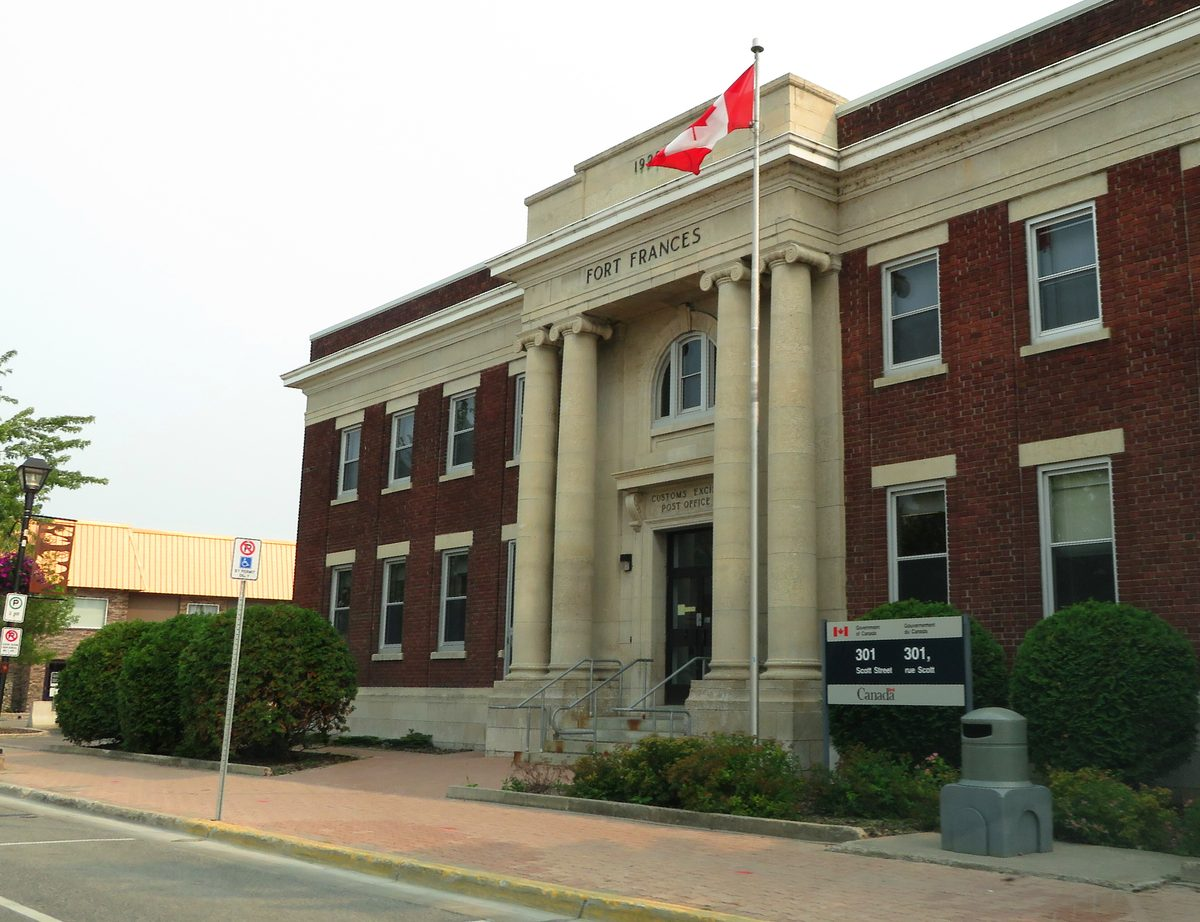
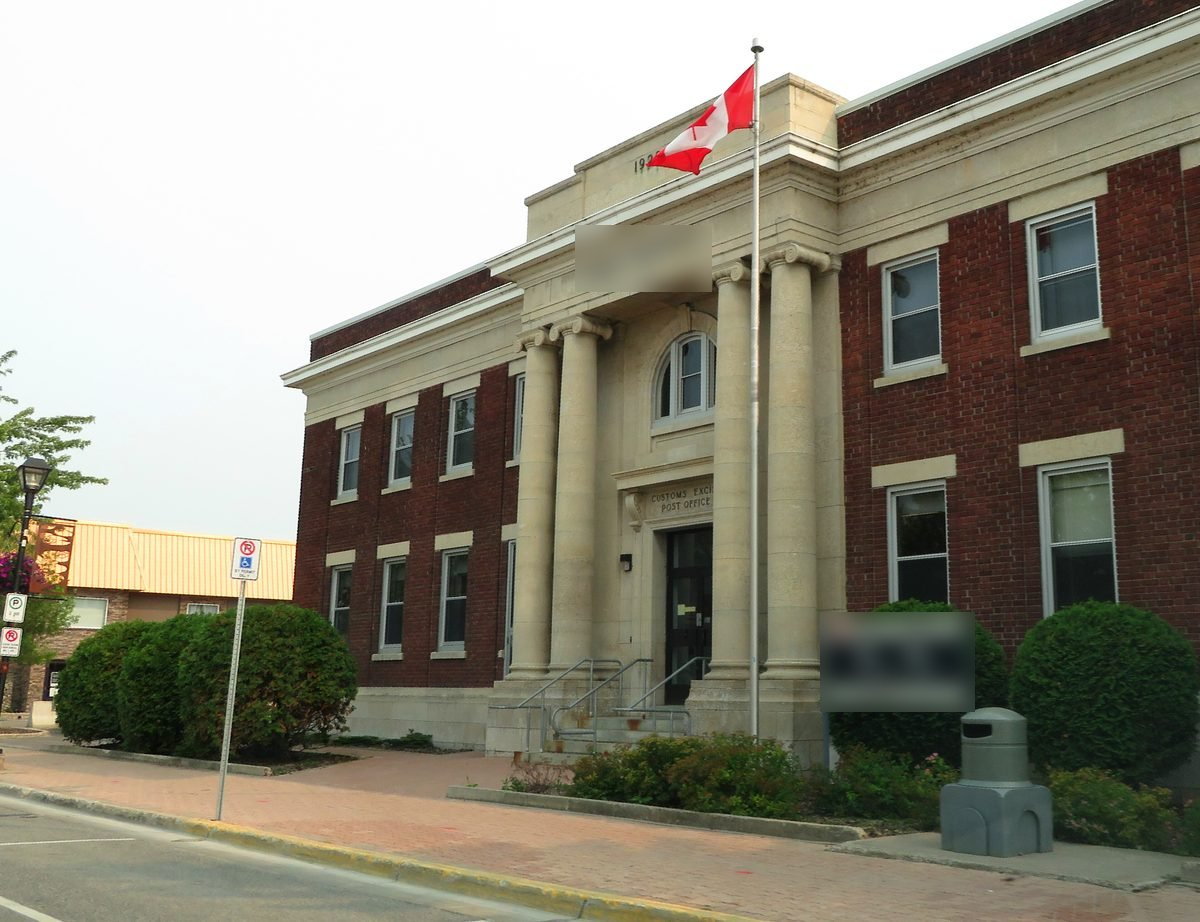
Remove client names and on-photo text from the services pages
Replace municipal client names with descriptions on services.html and the
Financial, Governance and Operational Improvement pages, drop the
"2013 Forward" project title, and blur the town name and street-address
sign on the post office photo.

Claude-Session: https://claude.ai/code/session_01XRxcuqMj64czPpwdNU61jx

Changed region(s): [[0.6783, 0.6377, 0.8325, 0.7896], [0.4625, 0.243, 0.5858, 0.3341]]

diff --git a/governance.html b/governance.html
@@ -57,11 +57,11 @@
       <p class="section-intro">Engagements led by Bruce Peever, founder of Baile Mór. For the full story of another, read the <a href="case-study-irrigation-governance.html">regional irrigation governance</a> case study.</p>
       <ul class="work-list">
         <li>
-          <h3>London Transit Commission</h3>
+          <h3>A large city’s transit commission</h3>
           <p class="work-meta">Governance review</p>
           <dl class="work-star">
             <dt>Challenge</dt>
-            <dd>After an interim change put City Councillors in place as commissioners, the City of London needed a governance model with clear accountability, timely decisions, and alignment with Council priorities.</dd>
+            <dd>After an interim change put City Councillors in place as commissioners, the City needed a governance model with clear accountability, timely decisions, and alignment with Council priorities.</dd>
             <dt>Approach</dt>
             <dd>Working with Dillon Consulting, Bruce engaged more than 25 people across Council, City administration, and the Commission, compared five peer transit organizations, and assessed three governance options.</dd>
             <dt>Result</dt>
@@ -69,7 +69,7 @@
           </dl>
         </li>
         <li>
-          <h3>Town of Fort Frances</h3>
+          <h3>A Northwestern Ontario town</h3>
           <p class="work-meta">Governance review</p>
           <dl class="work-star">
             <dt>Challenge</dt>

diff --git a/services.html b/services.html
@@ -50,19 +50,19 @@
         <li>
           <h2><a href="financial-strategy.html">Financial Strategy</a></h2>
           <p>When today’s budget can’t carry tomorrow’s obligations, you need a plan, not a guess.</p>
-          <p class="card-proof">Recent work: Cornwall, Wilmot, Mississippi Mills, Canso</p>
+          <p class="card-proof">Recent work: cities, townships and rural communities in Ontario and Nova Scotia</p>
           <span class="more" aria-hidden="true">Learn more →</span>
         </li>
         <li>
           <h2><a href="governance.html">Governance</a></h2>
           <p>Difficult decisions deserve independent, experienced counsel.</p>
-          <p class="card-proof">Recent work: London Transit Commission, Fort Frances</p>
+          <p class="card-proof">Recent work: a large city’s transit commission and a Northwestern Ontario town</p>
           <span class="more" aria-hidden="true">Learn more →</span>
         </li>
         <li>
           <h2><a href="operational-improvement.html">Operational Improvement</a></h2>
           <p>You suspect something isn’t working. We give you the evidence and the roadmap.</p>
-          <p class="card-proof">Recent work: Waterloo, Guelph, North Bay, Saint John</p>
+          <p class="card-proof">Recent work: city-wide reviews in Southwestern and Northern Ontario</p>
           <span class="more" aria-hidden="true">Learn more →</span>
         </li>
         <li>

diff --git a/operational-improvement.html b/operational-improvement.html
@@ -57,8 +57,8 @@
       <p class="section-intro">Engagements led by Bruce Peever, founder of Baile Mór. For the full story of another, read the <a href="case-study-organizational-review.html">organizational review of a Northern Ontario city</a> case study.</p>
       <ul class="work-list">
         <li>
-          <h3>City of Waterloo</h3>
-          <p class="work-meta">Organizational review, “2013 Forward”</p>
+          <h3>A university city in Southwestern Ontario</h3>
+          <p class="work-meta">Organizational review</p>
           <dl class="work-star">
             <dt>Challenge</dt>
             <dd>The City wanted its structure, staffing, and culture aligned with the community’s future needs, and its operations demonstrably efficient and effective.</dd>
@@ -69,7 +69,7 @@
           </dl>
         </li>
         <li>
-          <h3>City of Guelph</h3>
+          <h3>A mid-sized Southwestern Ontario city</h3>
           <p class="work-meta">Service rationalization review</p>
           <dl class="work-star">
             <dt>Challenge</dt>

diff --git a/financial-strategy.html b/financial-strategy.html
@@ -57,7 +57,7 @@
       <p class="section-intro">Engagements led by Bruce Peever, founder of Baile Mór. For the full story of two more, read the case studies on <a href="case-study-financial-plan.html">a ten-year financial plan in Eastern Ontario</a> and <a href="case-study-taxation-review.html">a taxation review in Nova Scotia</a>.</p>
       <ul class="work-list">
         <li>
-          <h3>City of Cornwall</h3>
+          <h3>An Eastern Ontario city</h3>
           <p class="work-meta">Long-Term Financial Plan</p>
           <dl class="work-star">
             <dt>Challenge</dt>
@@ -69,7 +69,7 @@
           </dl>
         </li>
         <li>
-          <h3>Township of Wilmot</h3>
+          <h3>A Southwestern Ontario township</h3>
           <p class="work-meta">Financial assessment and Long-Term Financial Plan</p>
           <dl class="work-star">
             <dt>Challenge</dt>
